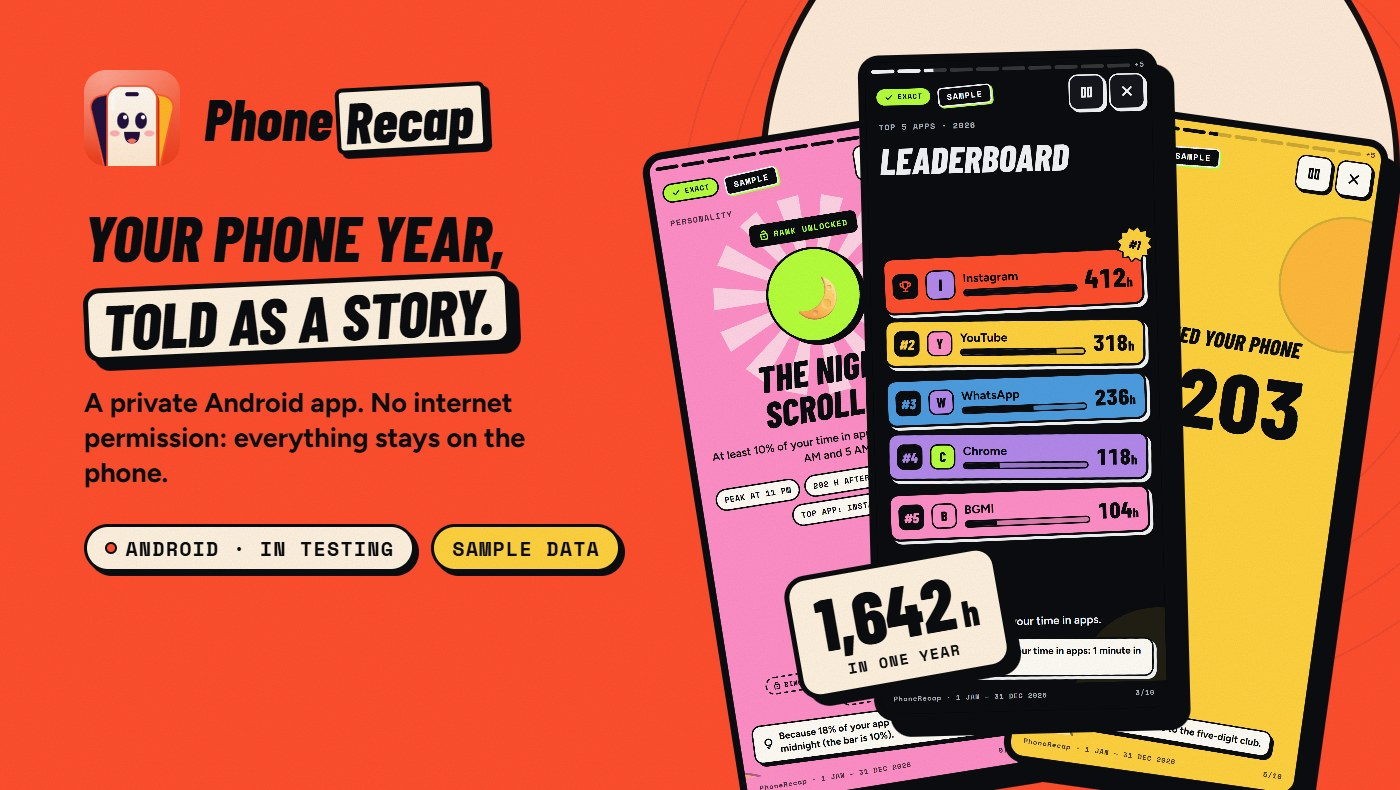
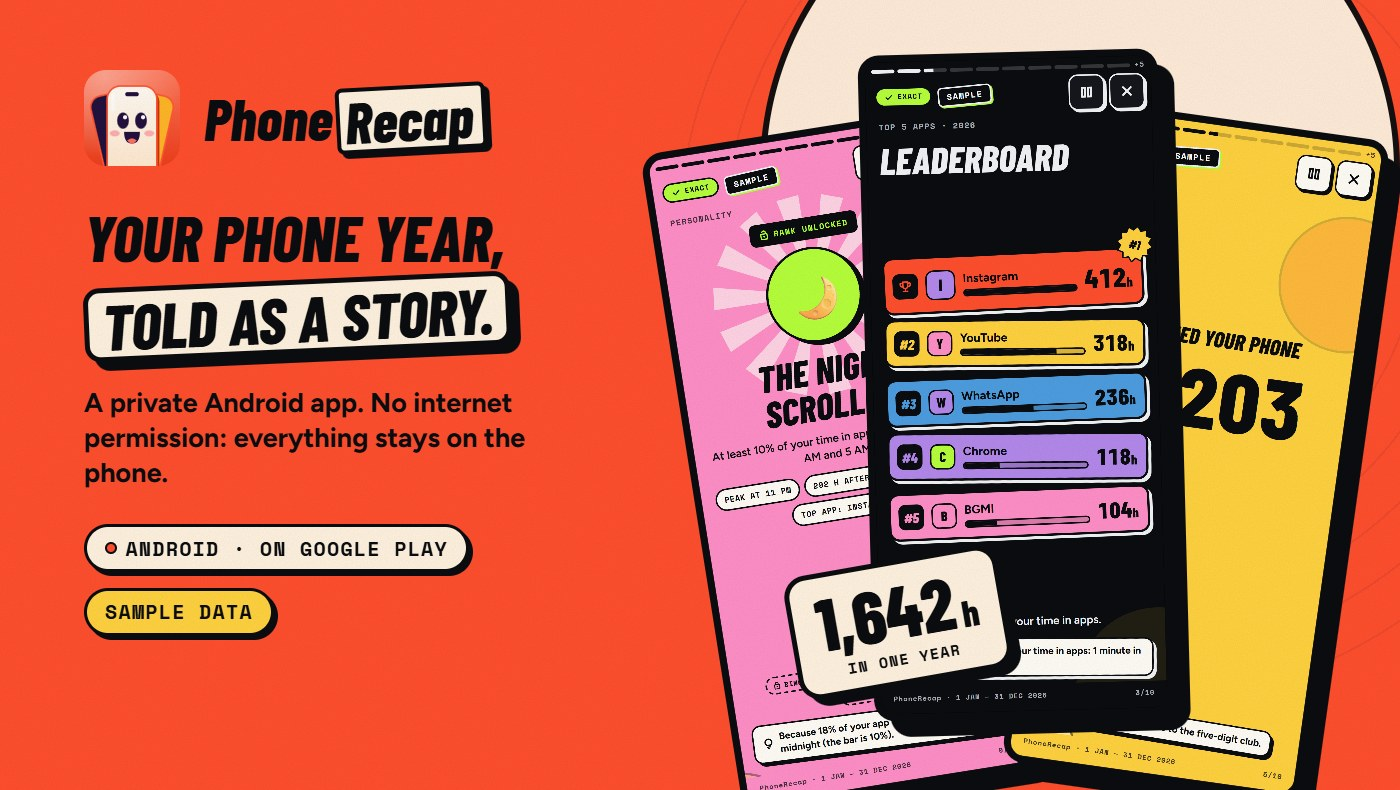
content: PhoneRecap link preview + home card say "on Google Play"; thanks page title after the test; checks cover og:image and tester-era titles

Changed region(s): [[0.1843, 0.638, 0.4607, 0.7291], [0.0614, 0.7291, 0.215, 0.8203]]

diff --git a/tools/checks/phonerecap-pages.js b/tools/checks/phonerecap-pages.js
@@ -108,6 +108,22 @@ const check = (ok, label) => {
         check(play.n > 0 && play.ok, `${tag}: Google Play badge links ${JSON.stringify(play)}`);
         check(play.forms === 0, `${tag}: no forms (tester form removed)`);
 
+        // Link preview + tab title: the launch image (v2, "Now on Google Play"), no tester-era words.
+        const meta = await page.evaluate(() => ({
+          title: document.title,
+          og: document.querySelector('meta[property="og:image"]')?.content || '',
+          tw: document.querySelector('meta[name="twitter:image"]')?.content || '',
+          desc: document.querySelector('meta[name="description"]')?.content || '',
+        }));
+        check(
+          meta.og.endsWith('/phonerecap-og-v2.jpg') && meta.tw === meta.og,
+          `${tag}: og/twitter image = phonerecap-og-v2.jpg (${meta.og})`,
+        );
+        check(
+          !/joining the|tester list|join the (android )?test/i.test(`${meta.title} ${meta.desc}`),
+          `${tag}: title/description not tester-era (${meta.title})`,
+        );
+
         await page.screenshot({
           path: path.join(shotDir, `phonerecap-${p.name}-${w}-js${js ? 'on' : 'off'}.png`),
           fullPage: true,

diff --git a/src/pages/phonerecap/index.js b/src/pages/phonerecap/index.js
@@ -774,7 +774,7 @@ const appSchema = {
   url: 'https://madhavkwatra.in/phonerecap/',
   installUrl: PLAY_URL,
   downloadUrl: 'https://play.google.com/store/apps/details?id=com.madhavkwatra.phonerecap',
-  image: 'https://madhavkwatra.in/phonerecap-og.jpg',
+  image: 'https://madhavkwatra.in/phonerecap-og-v2.jpg',
   offers: {
     '@type': 'Offer',
     price: '0',
@@ -792,7 +792,7 @@ export const Head = ({ location }) => (
   <Seo
     title="PhoneRecap — your phone year, told as a story"
     description={ONE_LINER}
-    image="/phonerecap-og.jpg"
+    image="/phonerecap-og-v2.jpg"
     pathname={location.pathname}
     schema={appSchema}
   />

diff --git a/src/pages/phonerecap/thanks.js b/src/pages/phonerecap/thanks.js
@@ -67,9 +67,9 @@ export default PhoneRecapThanksPage;
 // eslint-disable-next-line react/prop-types
 export const Head = ({ location }) => (
   <Seo
-    title="Thanks for joining the PhoneRecap test"
-    description="You are on the PhoneRecap tester list. Here is what happens next."
-    image="/phonerecap-og.jpg"
+    title="Thanks! The PhoneRecap test is done"
+    description="The PhoneRecap test is over. PhoneRecap is now on Google Play."
+    image="/phonerecap-og-v2.jpg"
     pathname={location.pathname}
     noindex
   />
